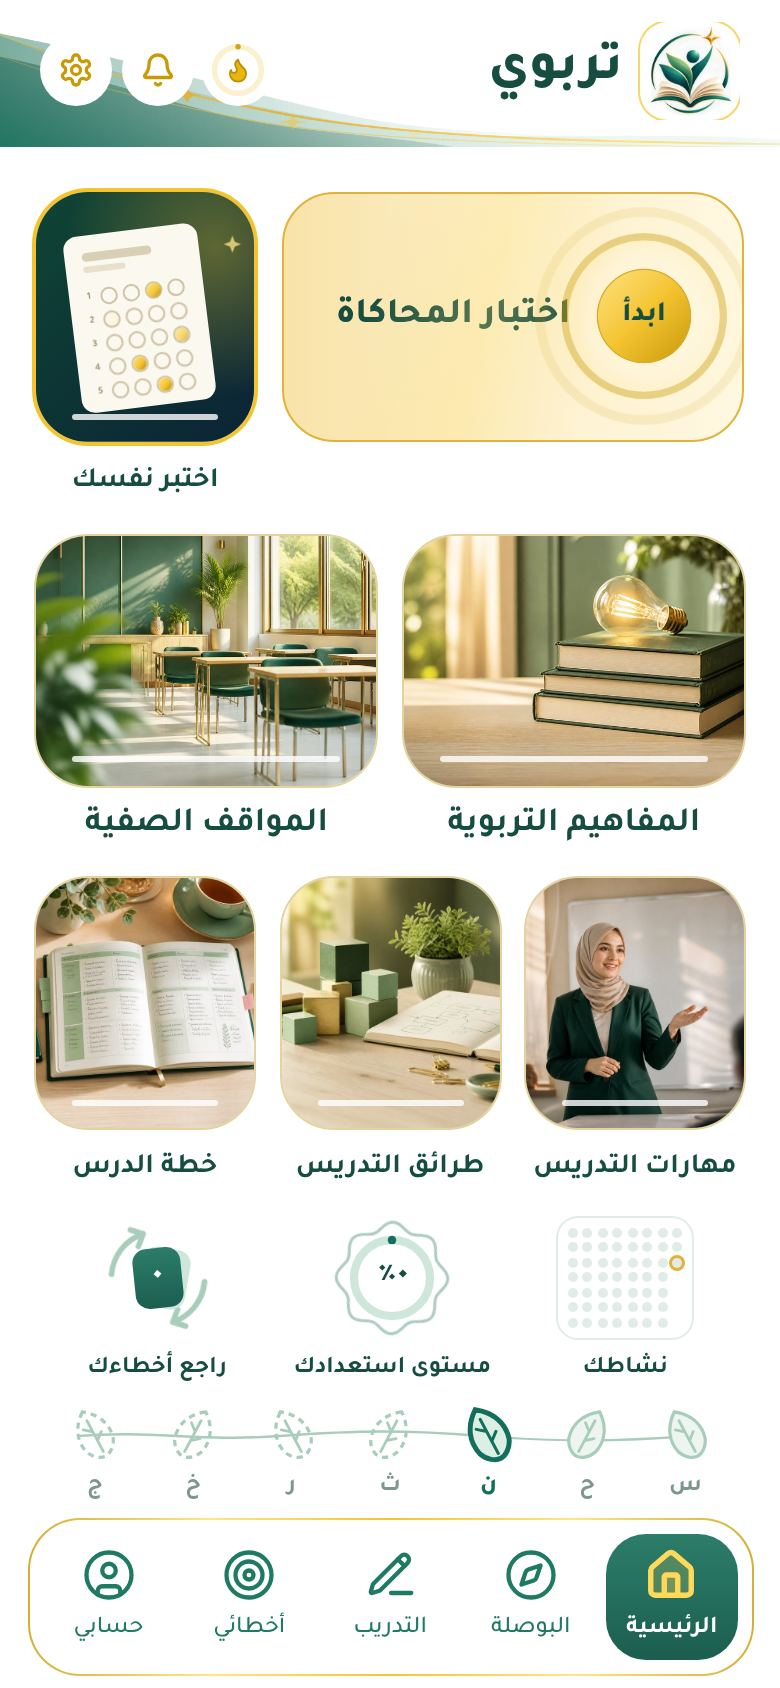
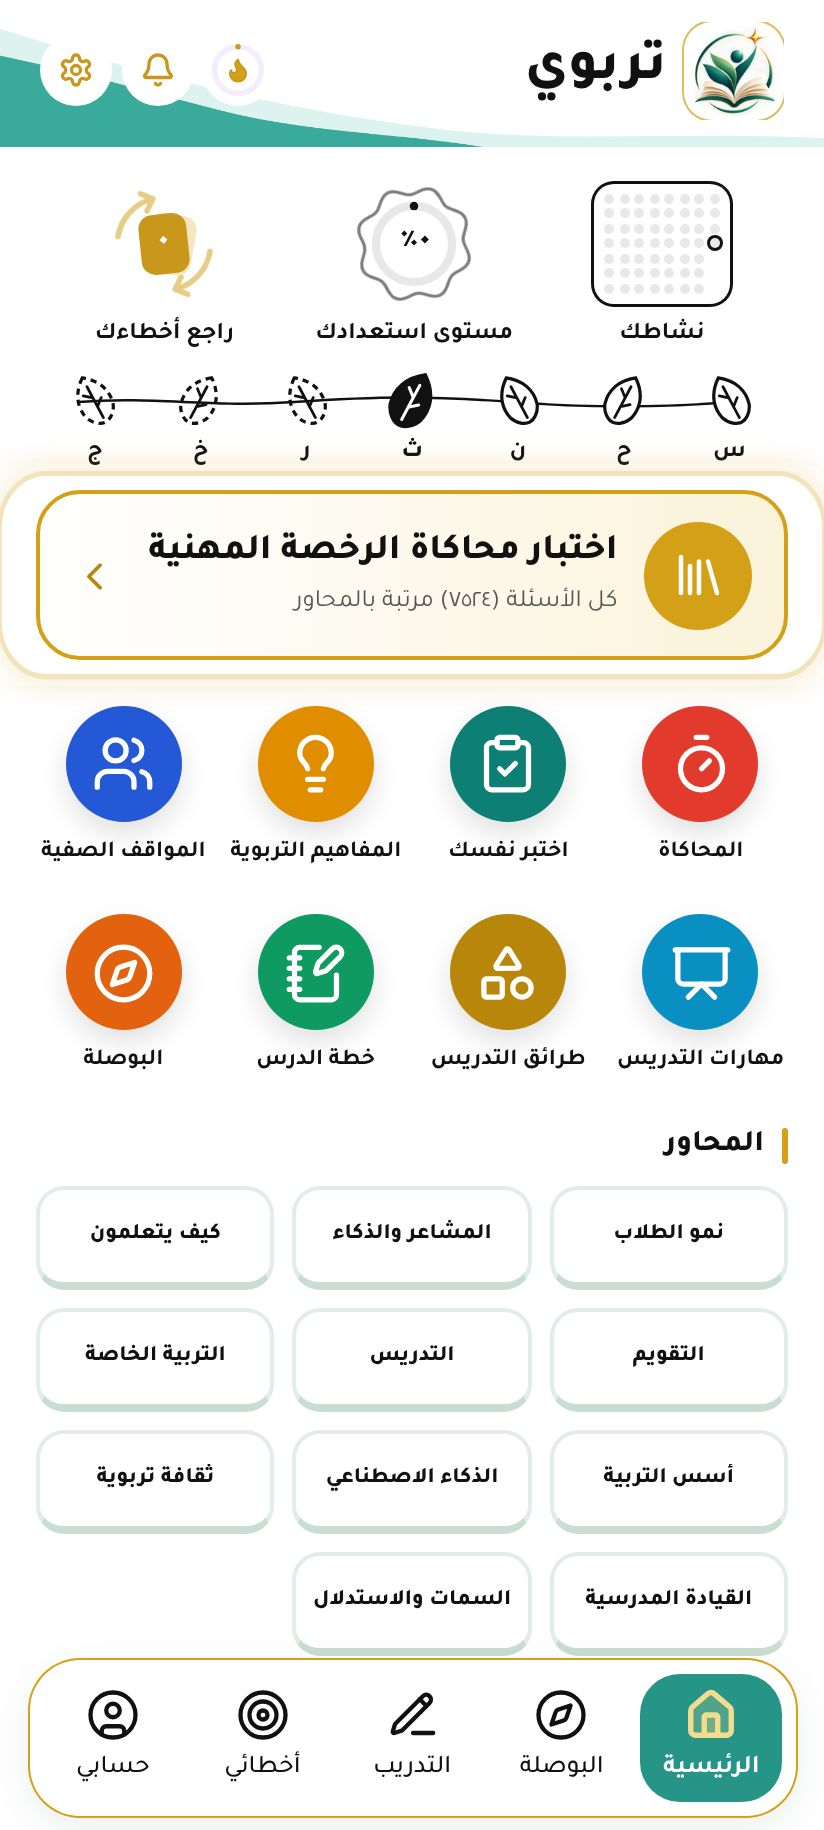
«اختبار محاكاة الرخصة المهنية»: كل أسئلة البنك مرتبة بالمحاور والفصول مع متابعة التقدم، وتحسين ملف التطبيق للمتاجر (#275)
Claude-Session: https://claude.ai/code/session_01PnwkJe31YmjV3nmTV518uG

diff --git a/src/components/app/LicenseBankView.tsx b/src/components/app/LicenseBankView.tsx
@@ -1,0 +1,161 @@
+"use client";
+
+// اختبار محاكاة الرخصة المهنية: كل أسئلة البنك في مكان واحد، مرتبة بالمحاور ثم الفصول،
+// يتابع الطالب فيها من حيث توقف، ويرى كم أنجز من كل محور وكل فصل.
+import { useMemo, useState } from "react";
+import { ChevronDown, ChevronLeft, CheckCircle2, PlayCircle, Timer } from "lucide-react";
+import { useApp } from "@/lib/store";
+import { useUi } from "@/lib/ui-store";
+import { COURSES, COURSE_SHORT, QUESTIONS, chaptersOfCourse, questionsOfChapter } from "@/lib/qbank";
+import { topicKey } from "@/lib/practice-bank";
+import { ad } from "@/lib/arabic";
+import { cn } from "@/lib/utils";
+import { ProgressBar, ScreenShell } from "./ui-kit";
+import type { Attempt } from "@/lib/types";
+
+const SET_SIZE = 20;
+const chapterLabel = (ch: string) => ch.replace(/^[أ-ي]ـ?\.\s*/, "");
+const COURSE_EMO: Record<string, string> = {
+  M1: "🌱", M2: "🧠", M3: "💡", M4: "📊", M5: "🧑🏫", SE1: "🤝", F1: "🏛", AI1: "🤖", G1: "📚", C1: "🛠", L1: "🧭", R1: "🧩",
+};
+
+type Stat = { total: number; done: number; correct: number };
+const stat = (qids: string[], attempts: Record<string, Attempt>): Stat => {
+  let done = 0;
+  let correct = 0;
+  for (const id of qids) {
+    const a = attempts[id];
+    if (a) {
+      done += 1;
+      if (a.correct) correct += 1;
+    }
+  }
+  return { total: qids.length, done, correct };
+};
+const pctOf = (n: number, d: number) => (d ? Math.round((n / d) * 100) : 0);
+
+/** المجموعة التالية: ما لم يُجب عنه بالترتيب، وإن اكتمل كله فما أخطأ فيه، وإلا من البداية */
+function nextSet(qids: string[], attempts: Record<string, Attempt>): string[] {
+  const fresh = qids.filter((id) => !attempts[id]);
+  if (fresh.length) return fresh.slice(0, SET_SIZE);
+  const wrong = qids.filter((id) => attempts[id] && !attempts[id].correct);
+  if (wrong.length) return wrong.slice(0, SET_SIZE);
+  return qids.slice(0, SET_SIZE);
+}
+
+export default function LicenseBankView() {
+  const close = useUi((s) => s.clearBank);
+  const startQuiz = useUi((s) => s.startQuiz);
+  const startExamsim = useUi((s) => s.startExamsim);
+  const attempts = useApp((s) => s.attempts);
+  const setLastStudy = useApp((s) => s.setLastStudy);
+  const [open, setOpen] = useState<string | null>(null);
+
+  // ترتيب البنك: المحاور، ثم فصول كل محور، ثم أسئلة كل فصل
+  const tree = useMemo(
+    () =>
+      COURSES.map((c) => {
+        const chapters = chaptersOfCourse(c.id).map((ch) => ({ ch, qids: questionsOfChapter(c.id, ch).map((q) => q.id) }));
+        return { course: c, chapters, qids: chapters.flatMap((x) => x.qids) };
+      }).filter((x) => x.qids.length > 0),
+    []
+  );
+  const allIds = useMemo(() => tree.flatMap((x) => x.qids), [tree]);
+  const all = stat(allIds, attempts);
+
+  const run = (label: string, qids: string[], key?: string) => startQuiz({ mode: "training", label, qids, topicKey: key });
+
+  const resumeAll = () => {
+    // أول فصل فيه أسئلة لم يُجب عنها، بالترتيب
+    for (const t of tree)
+      for (const c of t.chapters)
+        if (c.qids.some((id) => !attempts[id])) {
+          setLastStudy(t.course.id, c.ch);
+          return run(`${COURSE_SHORT[t.course.id] ?? t.course.name} · ${chapterLabel(c.ch)}`, nextSet(c.qids, attempts), topicKey(t.course.id, c.ch));
+        }
+    run("مراجعة ما أخطأت فيه", nextSet(allIds, attempts));
+  };
+
+  return (
+    <ScreenShell title="اختبار محاكاة الرخصة المهنية" onClose={close}>
+      <div className="space-y-5">
+        {/* البطاقة الكبرى: حجم البنك وما أنجزه الطالب */}
+        <section className="rounded-[24px] bg-[var(--t800)] p-5 text-white">
+          <p className="text-[13px] font-bold text-[#F3DC8E]">بنك أسئلة الرخصة المهنية كاملًا</p>
+          <p className="mt-1 font-display text-[30px] font-extrabold leading-[1.3]">{ad(all.total)} سؤالًا</p>
+          <p className="text-[13.5px] leading-6 text-white/80">مرتبة في {ad(tree.length)} محورًا، ولكل سؤال شرح لإجابته.</p>
+          <div className="mt-4">
+            <div className="mb-1.5 flex items-center justify-between text-[13px] font-bold">
+              <span>أنجزت {ad(all.done)} من {ad(all.total)}</span>
+              <span>{all.done ? `الدقة ${ad(pctOf(all.correct, all.done))}٪` : ""}</span>
+            </div>
+            <ProgressBar value={Math.max(all.done ? 1.5 : 0, pctOf(all.done, all.total))} color="#D4A017" height={8} className="bg-white/20" />
+          </div>
+          <div className="mt-4 grid grid-cols-2 gap-2 tiles2">
+            <button type="button" onClick={resumeAll} className="flex min-h-[48px] items-center justify-center gap-1.5 rounded-[16px] bg-[#F3DC8E] px-3 font-extrabold text-[#3a2c05]">
+              <PlayCircle className="h-5 w-5" /> {all.done ? "تابع من حيث توقفت" : "ابدأ من السؤال الأول"}
+            </button>
+            <button type="button" onClick={startExamsim} className="flex min-h-[48px] items-center justify-center gap-1.5 rounded-[16px] bg-white/15 px-3 font-bold text-white">
+              <Timer className="h-5 w-5" /> اختبار بوقت حقيقي
+            </button>
+          </div>
+        </section>
+
+        {/* المحاور: كل محور يفتح فصوله */}
+        <section className="space-y-2.5">
+          {tree.map(({ course, chapters, qids }) => {
+            const s = stat(qids, attempts);
+            const isOpen = open === course.id;
+            return (
+              <div key={course.id} className="overflow-hidden rounded-[20px] border-2 border-[#E3EDE8] bg-white dark:border-border dark:bg-card">
+                <button type="button" onClick={() => setOpen(isOpen ? null : course.id)} aria-expanded={isOpen} className="flex w-full items-center gap-3 p-3.5 text-right">
+                  <span className="flex h-11 w-11 shrink-0 items-center justify-center rounded-full bg-[var(--t100)] text-[22px]" aria-hidden="true">{COURSE_EMO[course.id] ?? "📚"}</span>
+                  <span className="min-w-0 flex-1">
+                    <span className="block font-extrabold leading-6 text-foreground">{course.name}</span>
+                    <span className="mt-0.5 block text-[12.5px] text-muted-foreground">
+                      {ad(s.total)} سؤالًا · {ad(chapters.length)} فصلًا · أنجزت {ad(pctOf(s.done, s.total))}٪
+                    </span>
+                    <ProgressBar value={pctOf(s.done, s.total)} height={4} className="mt-1.5" />
+                  </span>
+                  <ChevronDown className={cn("h-5 w-5 shrink-0 text-muted-foreground transition", isOpen && "rotate-180")} />
+                </button>
+                {isOpen && (
+                  <ul className="divide-y divide-[var(--t075)] border-t border-[var(--t075)] dark:divide-border dark:border-border">
+                    {chapters.map(({ ch, qids: cq }, i) => {
+                      const cs = stat(cq, attempts);
+                      const complete = cs.done === cs.total;
+                      return (
+                        <li key={ch}>
+                          <button
+                            type="button"
+                            onClick={() => {
+                              setLastStudy(course.id, ch);
+                              run(chapterLabel(ch), nextSet(cq, attempts), topicKey(course.id, ch));
+                            }}
+                            className="flex w-full items-center gap-3 px-3.5 py-3 text-right active:bg-[var(--t050)]"
+                          >
+                            <span className={cn("flex h-7 w-7 shrink-0 items-center justify-center rounded-full text-[12px] font-extrabold", complete ? "bg-[var(--t700)] text-white" : "bg-muted text-foreground")}>
+                              {complete ? <CheckCircle2 className="h-4 w-4" /> : ad(i + 1)}
+                            </span>
+                            <span className="min-w-0 flex-1">
+                              <span className="block text-[14.5px] font-bold leading-6 text-foreground">{chapterLabel(ch)}</span>
+                              <span className="block text-[12px] text-muted-foreground">
+                                {ad(cs.done)} من {ad(cs.total)} سؤالًا{cs.done ? ` · الدقة ${ad(pctOf(cs.correct, cs.done))}٪` : ""}
+                              </span>
+                            </span>
+                            <ChevronLeft className="h-4 w-4 shrink-0 text-muted-foreground" />
+                          </button>
+                        </li>
+                      );
+                    })}
+                  </ul>
+                )}
+              </div>
+            );
+          })}
+        </section>
+        <p className="text-center text-[12.5px] leading-6 text-muted-foreground">كل فصل يُعرض في مجموعات من {ad(SET_SIZE)} سؤالًا بالترتيب، ثم تُعاد عليك الأسئلة التي أخطأت فيها.</p>
+      </div>
+    </ScreenShell>
+  );
+}

diff --git a/src/components/app/AppShell.tsx b/src/components/app/AppShell.tsx
@@ -41,6 +41,7 @@ import MeasureKit from "./MeasureKit";
 import PeerChallenge from "./PeerChallenge";
 import HeartOfClass from "./HeartOfClass";
 import ExamSimView from "./ExamSimView";
+import LicenseBankView from "./LicenseBankView";
 import PlacementView from "./PlacementView";
 import FlashcardsView from "./FlashcardsView";
 import AiAssistantView from "./AiAssistantView";
@@ -308,7 +309,7 @@ export default function AppShell() {
   // زر الرجوع في الهاتف: يغلق الشاشة المفتوحة أولًا ويبقى في التبويب نفسه، ثم يعود إلى الرئيسية
   const overlayOpen =
     ui.scenariosOpen || ui.labOpen || ui.simOpen || ui.studioOpen || ui.fieldOpen || ui.challengesOpen || ui.measureOpen ||
-    ui.heartOpen || ui.peerOpen || ui.examsimOpen || ui.placementOpen || ui.mindOpen || ui.mythOpen || ui.flashOpen || ui.aiOpen || ui.learnOpen;
+    ui.heartOpen || ui.peerOpen || ui.examsimOpen || ui.bankOpen || ui.placementOpen || ui.mindOpen || ui.mythOpen || ui.flashOpen || ui.aiOpen || ui.learnOpen;
   const overlayRef = useRef(false);
   useEffect(() => {
     if (overlayOpen && !overlayRef.current) window.history.pushState({ turbawyOverlay: true }, "");
@@ -422,7 +423,7 @@ export default function AppShell() {
     const s = useUi.getState();
     if (req.concept) { s.openConcept(req.concept); return; }
     const open: Record<string, () => void> = {
-      examsim: s.startExamsim, placement: s.startPlacement, learn: s.startLearn, sim: s.startSim, lab: s.startLab,
+      examsim: s.startExamsim, bank: s.startBank, placement: s.startPlacement, learn: s.startLearn, sim: s.startSim, lab: s.startLab,
       studio: s.startStudio, scenarios: s.startScenarios, measure: s.startMeasure, mind: s.startMind, myths: s.startMyths,
       flash: s.startFlash, challenges: s.startChallenges, field: s.startField,
     };
@@ -527,6 +528,7 @@ export default function AppShell() {
       <AnimatePresence>{ui.studioOpen && <StudioView key="studio" />}</AnimatePresence>
       <AnimatePresence>{ui.fieldOpen && <FieldLogView key="field" />}</AnimatePresence>
       <AnimatePresence>{ui.scenariosOpen && <ScenariosView key="scenarios" />}</AnimatePresence>
+      <AnimatePresence>{ui.bankOpen && <LicenseBankView key="bank" />}</AnimatePresence>
       <AnimatePresence>{ui.examsimOpen && <ExamSimView key="examsim" />}</AnimatePresence>
       <AnimatePresence>{ui.placementOpen && <PlacementView key="placement" />}</AnimatePresence>
       {ui.learnOpen && (

diff --git a/src/lib/ui-store.ts b/src/lib/ui-store.ts
@@ -28,6 +28,7 @@ interface UiState {
   peerOpen: boolean; // تحدّي الأقران — رابط يحمل التحدي بلا سيرفر
   peerIncoming: PeerPayload | null; // تحدٍّ وصل عبر رابط مفتوح — يُلتقط من معرف الرابط
   examsimOpen: boolean; // محاكي الرخصة والمسابقات — بلاتنات موقوتة بأقسام ومحك
+  bankOpen: boolean; // بنك الرخصة المهنية: كل الأسئلة مرتبة بالمحاور والفصول
   placementOpen: boolean; // اختبار تحديد المستوى — تشخيص ثلاثي المستويات
   flashOpen: boolean; // بطاقات المفاهيم — وضع بطاقات القلب
   learnOpen: boolean; // شاشة المفاهيم التربوية (المحاور والفصول والمفاهيم)
@@ -60,6 +61,8 @@ interface UiState {
   clearPeer: () => void;
   setPeerIncoming: (p: PeerPayload | null) => void;
   startExamsim: () => void;
+  startBank: () => void;
+  clearBank: () => void;
   clearExamsim: () => void;
   startPlacement: () => void;
   clearPlacement: () => void;
@@ -92,6 +95,7 @@ export const useUi = create<UiState>((set) => ({
   peerOpen: false,
   peerIncoming: null,
   examsimOpen: false,
+  bankOpen: false,
   placementOpen: false,
   flashOpen: false,
   aiOpen: false,
@@ -124,6 +128,8 @@ export const useUi = create<UiState>((set) => ({
   clearPeer: () => set({ peerOpen: false }),
   setPeerIncoming: (p) => set({ peerIncoming: p }),
   startExamsim: () => set({ examsimOpen: true }),
+  startBank: () => set({ bankOpen: true }),
+  clearBank: () => set({ bankOpen: false }),
   clearExamsim: () => set({ examsimOpen: false }),
   startPlacement: () => set({ placementOpen: true }),
   clearPlacement: () => set({ placementOpen: false }),
@@ -149,6 +155,7 @@ export const useUi = create<UiState>((set) => ({
       heartOpen: false,
       peerOpen: false,
       examsimOpen: false,
+      bankOpen: false,
       placementOpen: false,
       mythOpen: false,
       mindOpen: false,

diff --git a/src/components/app/LicenseBankCard.tsx b/src/components/app/LicenseBankCard.tsx
@@ -1,0 +1,31 @@
+"use client";
+// بطاقة الدخول إلى «اختبار محاكاة الرخصة المهنية»: كل أسئلة البنك مرتبة
+import { ChevronLeft, Library } from "lucide-react";
+import { useApp } from "@/lib/store";
+import { useUi } from "@/lib/ui-store";
+import { QUESTIONS } from "@/lib/qbank";
+import { ad } from "@/lib/arabic";
+
+export default function LicenseBankCard() {
+  const startBank = useUi((s) => s.startBank);
+  const done = useApp((s) => Object.keys(s.attempts).length);
+  const total = QUESTIONS.length;
+  return (
+    <button
+      type="button"
+      onClick={startBank}
+      className="glow-pulse relative isolate flex w-full min-w-0 items-center gap-3 rounded-[22px] border-2 border-[#D4A017] bg-gradient-to-l from-[#FBF3DA] to-white px-3.5 py-3 text-right transition active:scale-[0.98] dark:from-card dark:to-card"
+    >
+      <span className="flex h-12 w-12 shrink-0 items-center justify-center rounded-full bg-[#D4A017] text-white">
+        <Library className="h-6 w-6" />
+      </span>
+      <span className="min-w-0 flex-1">
+        <span className="block font-extrabold leading-6 text-foreground">اختبار محاكاة الرخصة المهنية</span>
+        <span className="block text-[12.5px] leading-5 text-muted-foreground">
+          كل الأسئلة ({ad(total)}) مرتبة بالمحاور{done ? ` · أنجزت ${ad(done)}` : ""}
+        </span>
+      </span>
+      <ChevronLeft className="h-5 w-5 shrink-0 text-[#B8860B]" />
+    </button>
+  );
+}

diff --git a/src/components/app/TodayView.tsx b/src/components/app/TodayView.tsx
@@ -15,6 +15,7 @@ import { overallReadiness } from "@/lib/practice-bank";
 import { ad } from "@/lib/arabic";
 import type { Tab } from "./AppShell";
 import { FitText } from "./FitText";
+import LicenseBankCard from "./LicenseBankCard";
 import { BookOpen, ClipboardCheck, Compass, Lightbulb, NotebookPen, Presentation, Shapes, Timer, Users } from "lucide-react";
 
 type Door = { title: string; img: string; pos?: string; progress: number; run: () => void; special?: boolean };
@@ -291,6 +292,9 @@ export default function TodayView({ onGoTab }: { onGoTab: (t: Tab) => void }) {
           </button>
         </div>
       </motion.div>
+
+      {/* بنك الرخصة كاملًا: أهم باب للطلاب */}
+      <LicenseBankCard />
 
       {/* أبواب التطبيق */}
       {homeStyle === "icons" ? (

diff --git a/src/components/app/PracticeView.tsx b/src/components/app/PracticeView.tsx
@@ -51,6 +51,7 @@ import { cn } from "@/lib/utils";
 import ProgressSummary from "./ProgressSummary";
 import type { Tab } from "./AppShell";
 import TestBuilder from "./TestBuilder";
+import LicenseBankCard from "./LicenseBankCard";
 import { Divided, PageTitle, Stars, pct, GameTile } from "./ui-kit";
 
 const chapterLabel = (ch: string) => ch.replace(/^[أ-ي]ـ?\.\s*/, "");
@@ -132,6 +133,8 @@ export default function PracticeView({ onGoTab }: { onGoTab: (t: Tab) => void })
   return (
     <div className="space-y-5">
       <PageTitle title="التدريب" />
+
+      <LicenseBankCard />
 
       {/* البطاقة الرئيسية: تدريب ذكي، وشريط ما أنجزته من البنك (الأرقام في «حسابي») */}
       <button

diff --git a/src/lib/client-monitor.ts b/src/lib/client-monitor.ts
@@ -37,6 +37,10 @@ export function installClientMonitor() {
     }
     return origFetch(input, init);
   };
+  // عامل الخدمة في كل صفحات الموقع لا في التطبيق وحده (تشترطه أدوات التغليف للمتاجر)
+  if ("serviceWorker" in navigator && location.protocol === "https:") {
+    window.addEventListener("load", () => navigator.serviceWorker.register("/sw.js", { updateViaCache: "none" }).catch(() => {}), { once: true });
+  }
   window.addEventListener("error", (e) => reportClientError(e.error ?? e.message, "error"));
   window.addEventListener("unhandledrejection", (e) => reportClientError(e.reason, "promise"));
 }

diff --git a/public/sw.js b/public/sw.js
@@ -1,6 +1,6 @@
 // عامل خدمة: شبكة أولاً للتنقل والأصول، كاش أولاً لبنك البيانات الكبير
 // v32 — الواجهة الجديدة: الحسابات والجواهر والتدريب والأخطاء منقولة من أوريندو
-const CACHE = "turbawy-v241";
+const CACHE = "turbawy-v242";
 // كاش مستقل لبنك البيانات: لا يُحذف عند تحديث الواجهة، فلا يُعاد تنزيل البنك الكبير مع كل تحديث
 const DATA_CACHE = "turbawy-data";
 const SHELL = ["/app", "/manifest.json", "/icons/icon-192-v4.png", "/icons/icon-512-v4.png"];

diff --git a/src/lib/version.ts b/src/lib/version.ts
@@ -1,2 +1,2 @@
 // رقم الإصدار الظاهر في «حسابي»؛ يُرفع مع كل تحديث للواجهة
-export const APP_VERSION = "241";
+export const APP_VERSION = "242";
